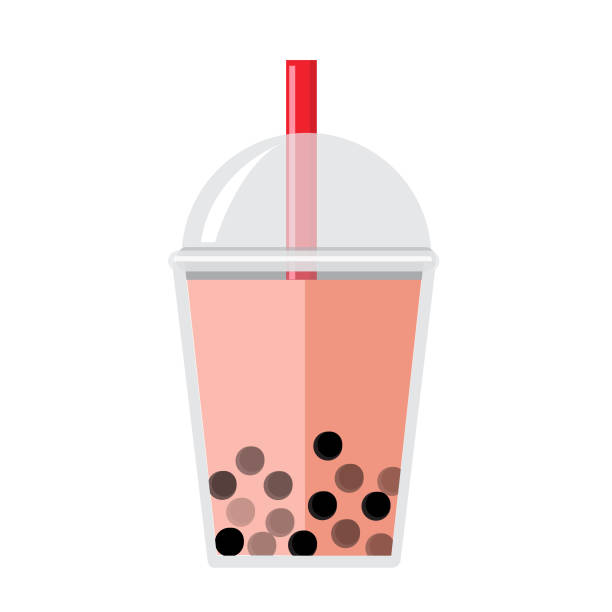
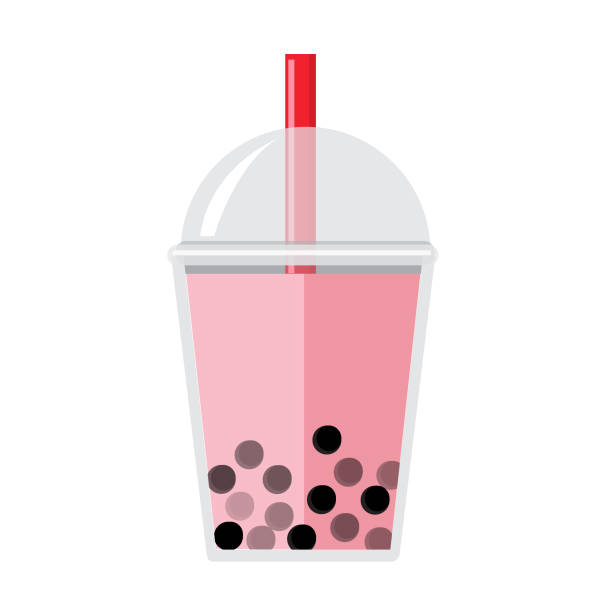
new boba places to list

diff --git a/lib/screens/how_to_page.dart b/lib/screens/how_to_page.dart
@@ -1,0 +1,160 @@
+import 'package:boba_me/screens/home_page.dart';
+import 'package:boba_me/screens/request_page.dart';
+import 'package:dropdown_button2/dropdown_button2.dart';
+import 'package:firebase_database/firebase_database.dart';
+import 'package:flutter/material.dart';
+
+
+class How_To_Page extends StatefulWidget {
+  const How_To_Page({Key? key}) : super(key: key);
+
+  @override
+  State<How_To_Page> createState() => _How_To_PageState();
+}
+
+class _How_To_PageState extends State<How_To_Page> {
+
+
+
+  @override
+  Widget build(BuildContext context) {
+
+    return Scaffold(
+      appBar: AppBar(
+        title: Text('Boba Me'),
+      ),
+      backgroundColor: Colors.white,
+      body: Center(
+          child: Column(
+              children: [
+                Expanded(
+                  flex: 80,
+                  child: Container(
+                    margin: EdgeInsets.only(left: 20, top: 20),
+                    child: Column(
+                      children: [
+                        Text(
+                          'How To:',
+                          style: TextStyle(
+                              fontFamily: 'Varela Round',
+                              fontSize: 36,
+                              color: Color(0xff4b553a)
+                          ),
+                        ),
+                        Text(
+                          '1. Select a boba place from the list',
+                          style: TextStyle(
+                              fontFamily: 'Varela Round',
+                              fontSize: 20,
+                              color: Color(0xff4b553a)
+                          ),
+                        ),
+                        Text(
+                          '2. Check the boxes ',
+                          style: TextStyle(
+                              fontFamily: 'Varela Round',
+                              fontSize: 20,
+                              color: Color(0xff4b553a)
+                          ),
+                        ),
+                      ],
+                    ),
+                  ),
+                ),
+                Expanded(
+                    flex: 20,
+                    child: Container(
+                      margin: const EdgeInsets.only(bottom: 15),
+                      child:
+                      Row(
+                        mainAxisAlignment: MainAxisAlignment.center,
+                        children: [
+                          Image.asset(
+                            'assets/images/coffee-milk-tea.png',
+                          ),
+                          Image.asset(
+                            'assets/images/honeydew-milk-tea.png',
+                          ),
+                          Image.asset(
+                            'assets/images/strawberry-milk-tea.png',
+                          ),
+                        ],
+                      ),
+                    )
+                )
+              ]
+          )
+      ),
+      endDrawer: Container(
+        width: 250,
+        child: Drawer(
+          child: Container(
+            color: const Color(0xffb87368),
+            child: ListView(
+              padding: EdgeInsets.only(top: 50),
+              children: [
+                ListTile(
+                  trailing: Icon(
+                    Icons.home,
+                    size: 30,
+                    color: Colors.white,
+                  ),
+                  title: const Text(
+                    'Home',
+                    style: TextStyle(
+                        fontFamily: 'Varela Round',
+                        color: Colors.white,
+                        fontSize: 25
+                    ),
+                    textAlign: TextAlign.right,
+                  ),
+                  onTap: () {
+                    Navigator.push(context, MaterialPageRoute(builder: (context) => MyHomePage()));
+                  },
+                ),
+                ListTile(
+                  trailing: Icon(
+                    Icons.add,
+                    size: 30,
+                    color: Colors.white,
+                  ),
+                  title: const Text(
+                    'Request',
+                    style: TextStyle(
+                        fontFamily: 'Varela Round',
+                        color: Colors.white,
+                        fontSize: 25
+                    ),
+                    textAlign: TextAlign.right,
+                  ),
+                  onTap: () {
+                    Navigator.push(context, MaterialPageRoute(builder: (context) => RequestPage()));
+                  },
+                ),
+                ListTile(
+                  trailing: Icon(
+                    Icons.question_mark,
+                    size: 30,
+                    color: Colors.white,
+                  ),
+                  title: const Text(
+                    'How To',
+                    style: TextStyle(
+                        fontFamily: 'Varela Round',
+                        color: Colors.white,
+                        fontSize: 25
+                    ),
+                    textAlign: TextAlign.right,
+                  ),
+                  onTap: () {
+                    Navigator.pop(context);
+                  },
+                ),
+              ],
+            ),
+          ),
+        ),
+      ),
+    );
+  }
+}

diff --git a/lib/screens/home_page.dart b/lib/screens/home_page.dart
@@ -1,3 +1,4 @@
+import 'package:boba_me/screens/how_to_page.dart';
 import 'package:boba_me/screens/request_page.dart';
 import 'package:firebase_database/firebase_database.dart';
 import 'package:flutter/material.dart';
@@ -13,7 +14,7 @@ class MyHomePage extends StatefulWidget {
 class _MyHomePageState extends State<MyHomePage> {
 
   String dropDownValue = 'Select one', randomOrder = '', randomTopping = '', topping = '';
-  var choices = ['Select one', '7 Leaves Cafe', 'Sunright Tea Studio', 'Sharetea', 'Gong Cha'];
+  var choices = ['Select one', '7 Leaves Cafe', 'Gong Cha', 'Omomo', 'Sharetea', 'Sunright Tea Studio', 'Ten Ren\'s Tea Time'];
   bool milkTeaCheck = false, fruitTeaCheck = false, teaCheck = false;
   bool slushCheck = false, coffeeCheck = false, toppingsCheck = false;
 
@@ -138,7 +139,7 @@ class _MyHomePageState extends State<MyHomePage> {
                                             Icons.arrow_drop_down,
                                             color: Color(0xff7c5b56)
                                         ),
-                                            iconSize: 36,
+                                        iconSize: 36,
                                         elevation: 17,
                                         style: TextStyle(color: Color(0xff7c5b56)),
                                         underline: Container(
@@ -413,7 +414,7 @@ class _MyHomePageState extends State<MyHomePage> {
                               'assets/images/milk-tea.png',
                             ),
                             Image.asset(
-                              'assets/images/strawberry-milk-tea.png',
+                              'assets/images/peach-milk-tea.png',
                             ),
                           ],
                         ),
@@ -468,6 +469,25 @@ class _MyHomePageState extends State<MyHomePage> {
                     Navigator.push(context, MaterialPageRoute(builder: (context) => RequestPage()));
                   },
                 ),
+                // ListTile(
+                //   trailing: Icon(
+                //     Icons.question_mark,
+                //     size: 30,
+                //     color: Colors.white,
+                //   ),
+                //   title: const Text(
+                //     'How To',
+                //     style: TextStyle(
+                //         fontFamily: 'Varela Round',
+                //         color: Colors.white,
+                //         fontSize: 25
+                //     ),
+                //     textAlign: TextAlign.right,
+                //   ),
+                //   onTap: () {
+                //     Navigator.push(context, MaterialPageRoute(builder: (context) => How_To_Page()));
+                //   },
+                // ),
               ],
             ),
           ),

diff --git a/lib/screens/request_page.dart b/lib/screens/request_page.dart
@@ -3,6 +3,8 @@ import 'package:dropdown_button2/dropdown_button2.dart';
 import 'package:firebase_database/firebase_database.dart';
 import 'package:flutter/material.dart';
 
+import 'how_to_page.dart';
+
 
 class RequestPage extends StatefulWidget {
   const RequestPage({Key? key}) : super(key: key);
@@ -45,7 +47,7 @@ class _RequestPageState extends State<RequestPage> {
                         mainAxisAlignment: MainAxisAlignment.center,
                         children: [
                           Text(
-                              '\nDon\'t see your favorite boba place?'
+                              '\nDon\'t see your favorite boba shop?'
                                   + '\nRequest it below with the city'
                                   + '\nand state to be added!',
                               style: TextStyle(
@@ -77,7 +79,7 @@ class _RequestPageState extends State<RequestPage> {
                                   horizontal: 20,
                                   vertical: 20,
                                 ),
-                                hintText: 'Enter a boba place',
+                                hintText: 'Enter a boba shop',
                                   hintStyle: TextStyle(
                                       color: Color(0xff7c5b56)
                                   ),
@@ -450,6 +452,25 @@ class _RequestPageState extends State<RequestPage> {
                     Navigator.pop(context);
                   },
                 ),
+                // ListTile(
+                //   trailing: Icon(
+                //     Icons.question_mark,
+                //     size: 30,
+                //     color: Colors.white,
+                //   ),
+                //   title: const Text(
+                //     'How To',
+                //     style: TextStyle(
+                //         fontFamily: 'Varela Round',
+                //         color: Colors.white,
+                //         fontSize: 25
+                //     ),
+                //     textAlign: TextAlign.right,
+                //   ),
+                //   onTap: () {
+                //     Navigator.push(context, MaterialPageRoute(builder: (context) => How_To_Page()));
+                //   },
+                // ),
               ],
             ),
           ),
